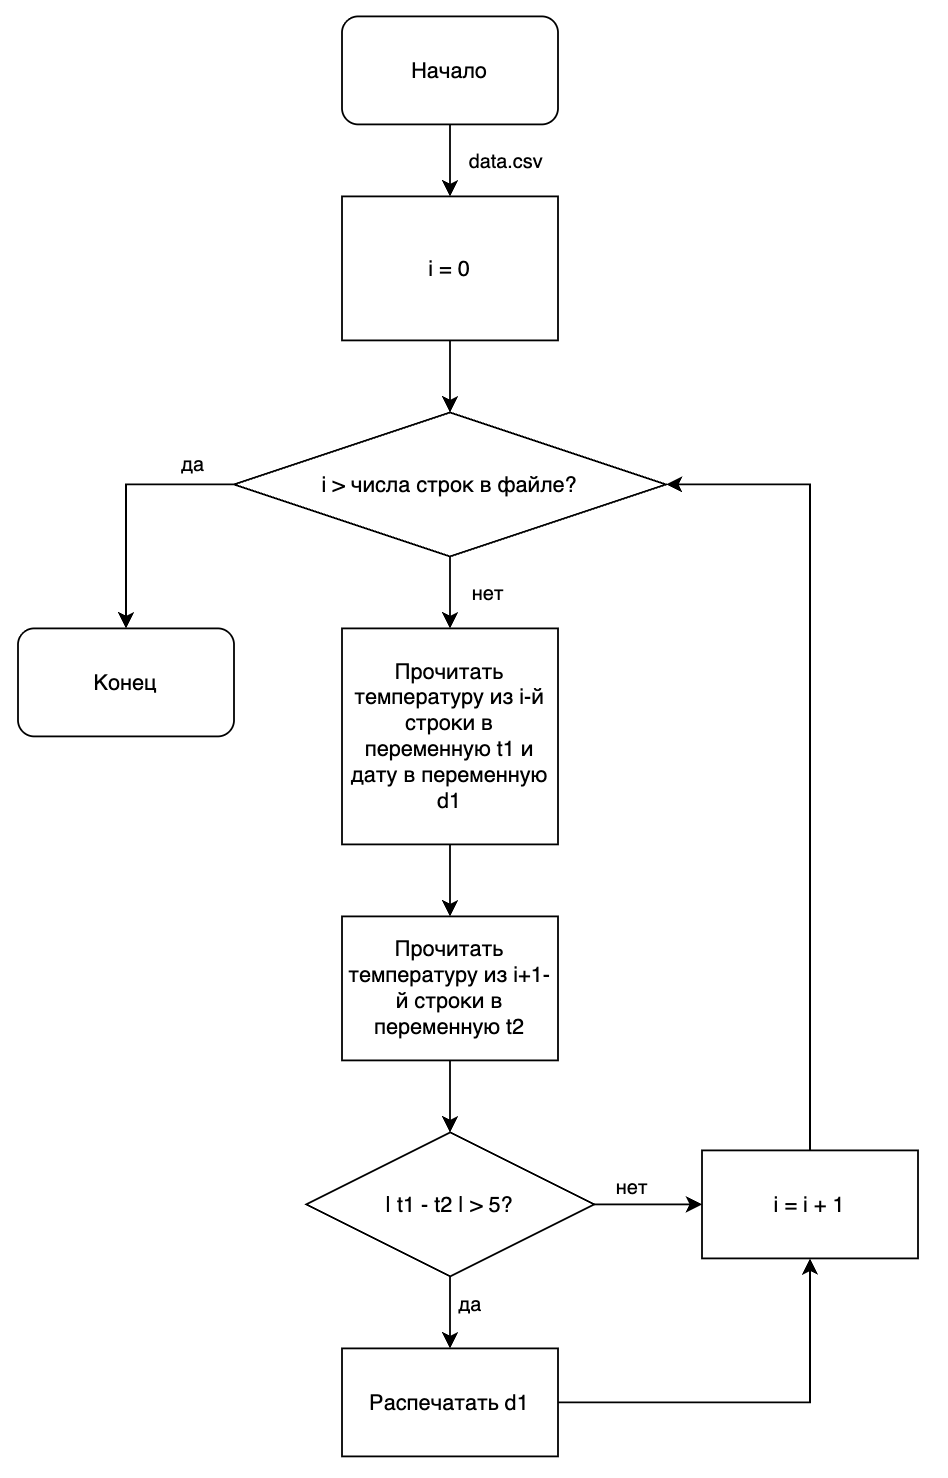
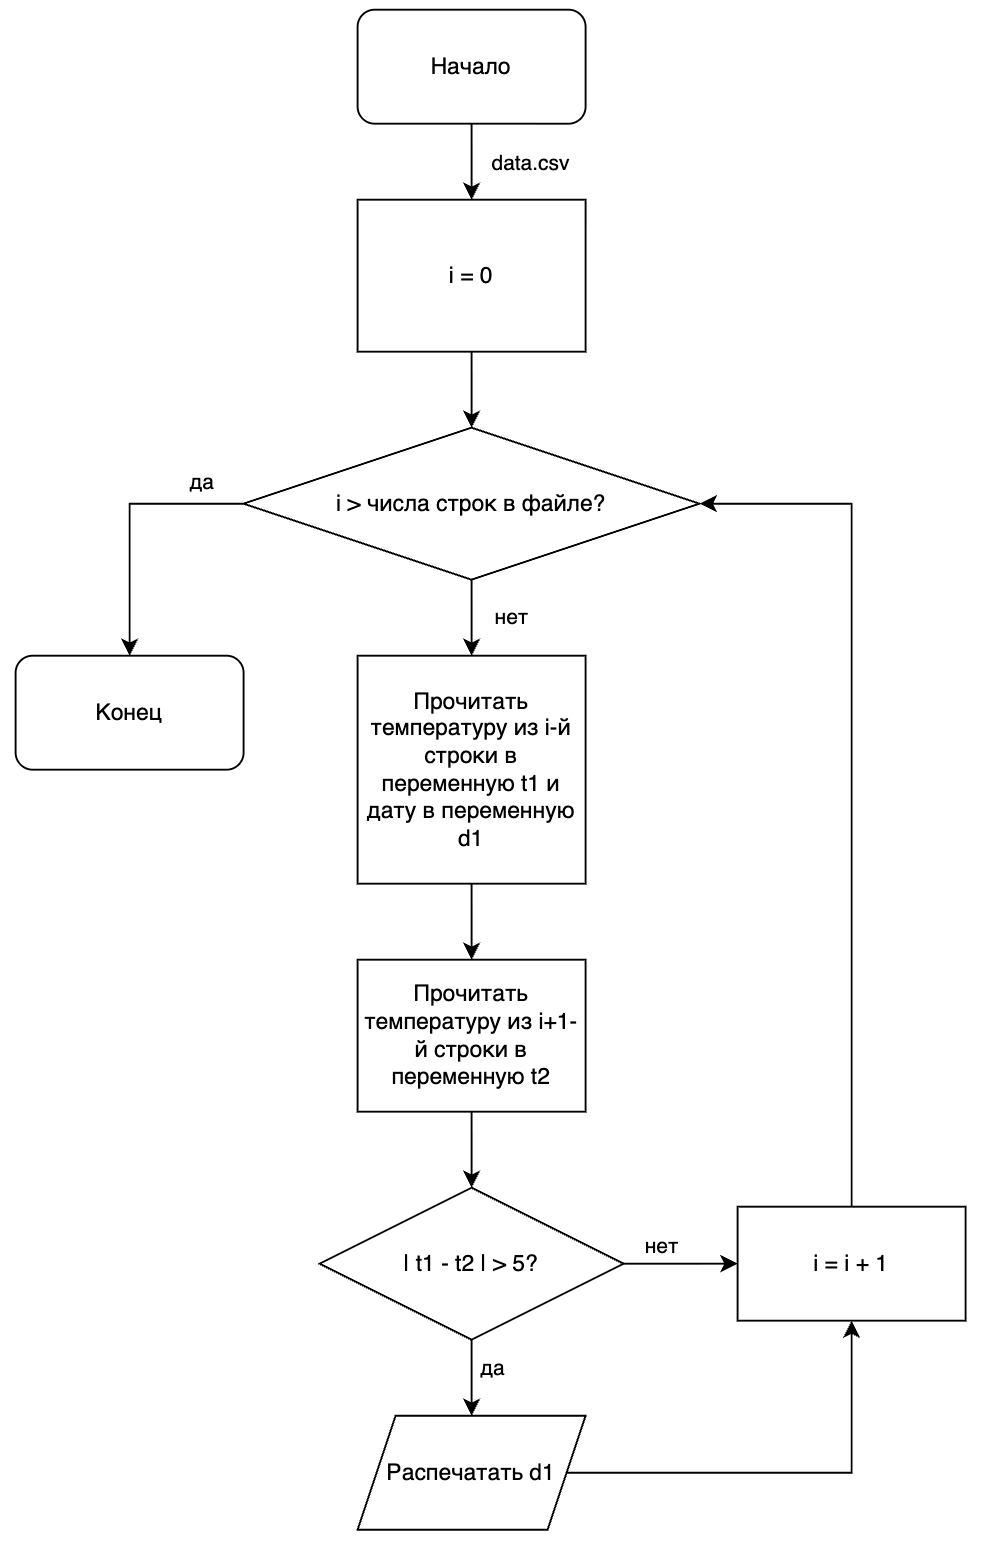
add block diagram explaination

diff --git a/interschool/01/design_block.md b/interschool/01/design_block.md
@@ -55,7 +55,7 @@
 В каждом задании будет поле для прикрепления файла. В целом можно прикреплять в любом удобном формате картинок, но лучше всего - PDF или JPEG.
 
 #### А что такое блок-схема?
-Это способ описания того, как будет работать код, при помощи диаграмм. У них есть специальная нотация, про которую можно почитать тут: TODO
+Это способ описания того, как будет работать код, при помощи диаграмм. У них есть специальная нотация, про которую можно почитать [тут](block_diagram.md).
 
 #### Как будут оцениваться задания?
 Несколько равнозначных критериев:

diff --git a/interschool/01/block_diagram.md b/interschool/01/block_diagram.md
@@ -1,0 +1,17 @@
+Блок-схема - это диаграмма, которая показывает последовательность действи в алгоритме. В этом документе показываются основные типы блоков и что они значат.
+
+#### Начало и конец
+
+![](block_diagram/termination.png)
+
+#### Действие
+
+![](block_diagram/action.png)
+
+#### Условие
+
+![](block_diagram/condition.png)
+
+#### Операции ввода-вывода
+
+![](block_diagram/io.png)
